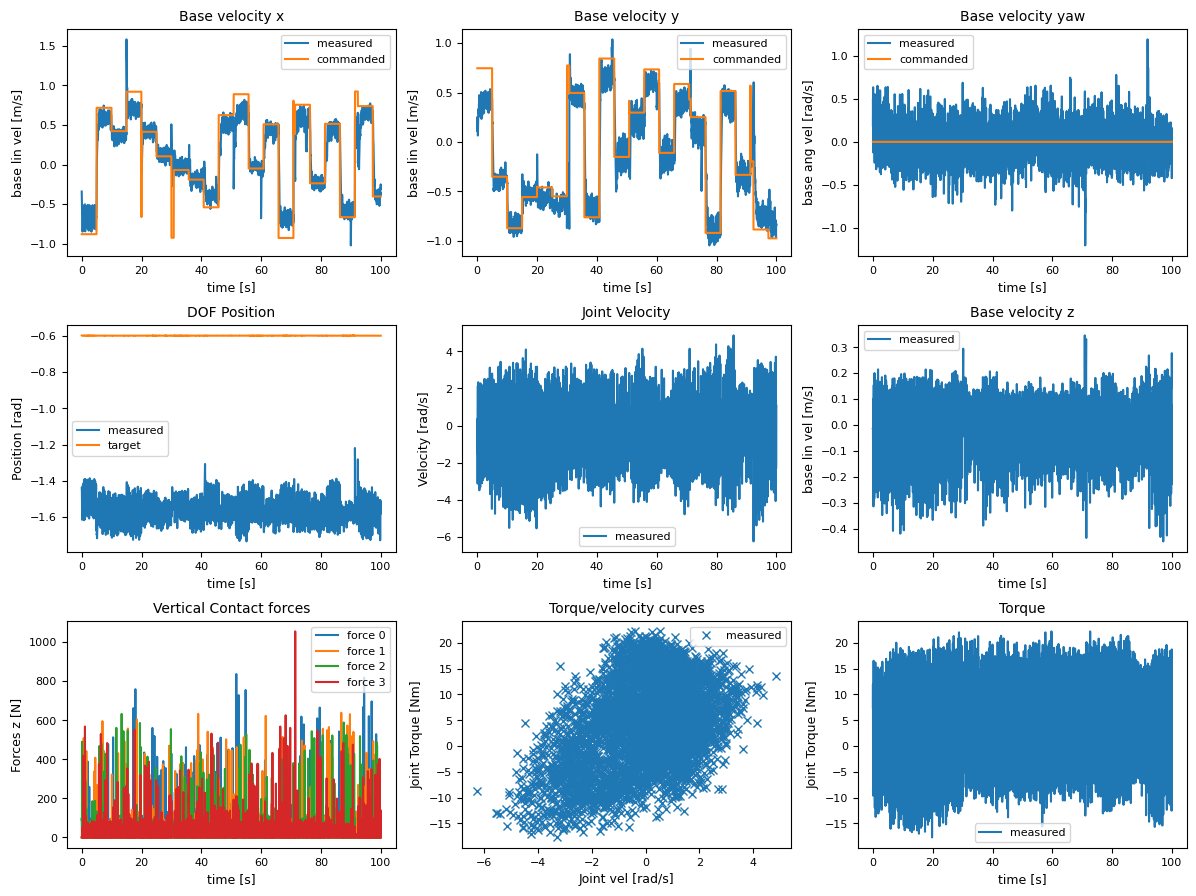
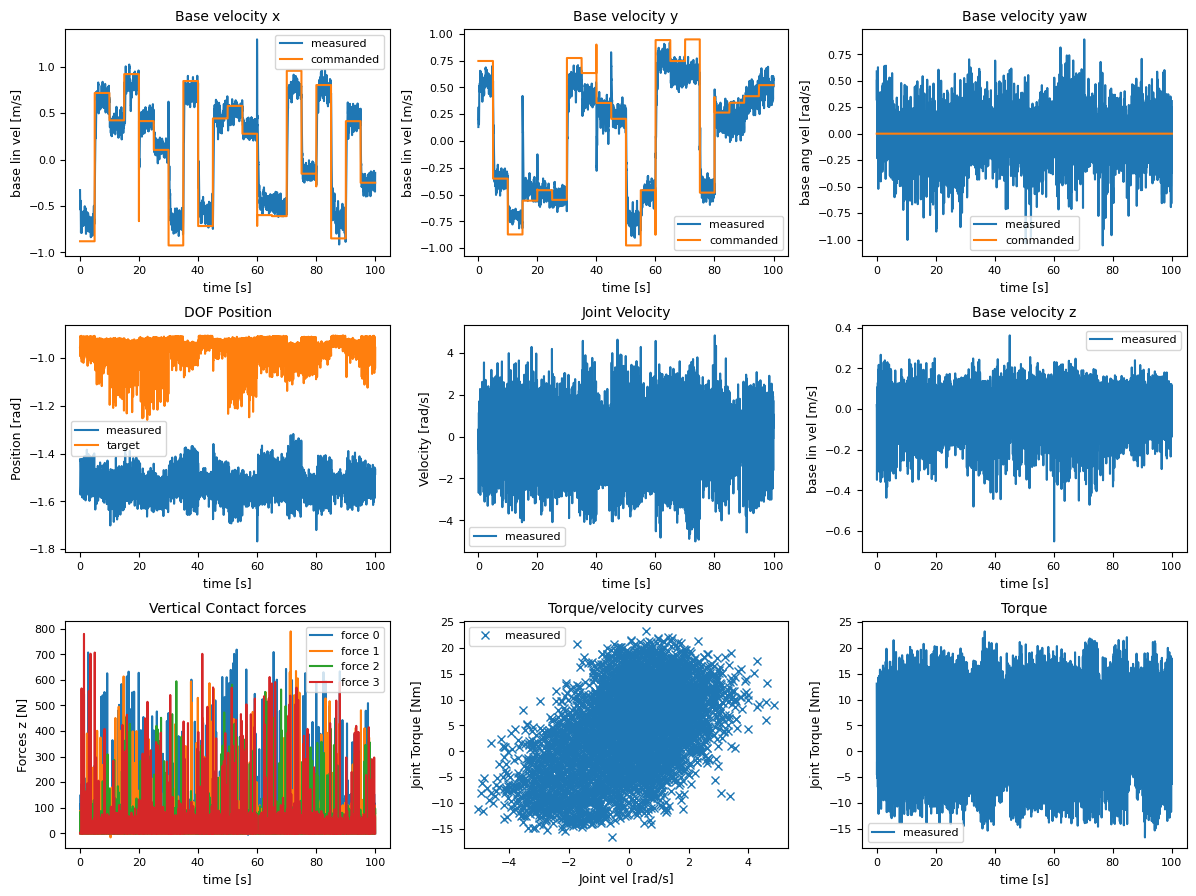
Push before updating tradeoff to formalized curriculum

diff --git a/legged_gym/envs/go1/dynamics_learning/go1_dynmaics_learning.py b/legged_gym/envs/go1/dynamics_learning/go1_dynmaics_learning.py
@@ -66,7 +66,6 @@ class LeggedRobotGo1Dynamic(BaseTask):
             actions (torch.Tensor): Tensor of shape (num_envs, num_actions_per_env)
         """
         # clip the predicted actions
-        
         clip_actions = self.cfg.normalization.clip_actions
         self.actions = torch.clip(
             actions, -clip_actions, clip_actions).to(self.device)
@@ -506,9 +505,8 @@ class LeggedRobotGo1Dynamic(BaseTask):
                     self._added_base_mass,        # 1
                     self._base_com_bias,          # 3
                     self._rand_push_vels[:, :2],  # 2
-                    self._joint_armature,         # 1
-                    self._joint_stiffness,        # 1
-                    self._joint_damping,          # 1
+                    torch.ones_like(self._added_base_mass)*self.feedforward_tau_weight, # 1
+                    torch.ones_like(self._added_base_mass)*self.feedback_tau_weight,    # 1
                     # mass of water tank
                     # stickness of water in tank
                 ),
@@ -1474,15 +1472,19 @@ class LeggedRobotGo1Dynamic(BaseTask):
             remapped_step = 12.0 * raw_step + (-6.0)  # between [-6, 6]
             gentle_step = 1.0 / (1.0 + np.exp(-remapped_step))
 
-            self.feedforward_tau_weight = gentle_step*self.bound_diff[0] + self.tradeoff_lowerbounds[0]
-            self.feedback_tau_weight    = gentle_step*self.bound_diff[1] + self.tradeoff_lowerbounds[1]
+            self.feedforward_tau_weight = raw_step*self.bound_diff[0] + self.tradeoff_lowerbounds[0]
+            self.feedback_tau_weight    = raw_step*self.bound_diff[1] + self.tradeoff_lowerbounds[1]
 
 
-        # Randomly set the weights back to the "initial" configuration - encouraging
-        #     the policy to retain it's ability to walk via position control AND torque
+        # Randomly set the weights to the "opposite" setting, where the primary driver is position-control and the secondary is torques configuration - 
+        #   encouraging the policy discover and retain the ability to walk via position control
         if random.random() < 0.5:
-            self.feedforward_tau_weight = self.tradeoff_lowerbounds[0]
-            self.feedback_tau_weight    = self.tradeoff_lowerbounds[1]
+            raw_step = float(self.num_iters)/float(self.tradeoff_num_steps)   # between [0,1]
+            
+            random_step = random.uniform(0.0, raw_step)
+
+            self.feedforward_tau_weight = random_step*self.bound_diff[0] + self.tradeoff_lowerbounds[0]
+            self.feedback_tau_weight    = random_step*self.bound_diff[1] + self.tradeoff_lowerbounds[1]
 
         print("self.feedforward_tau_weight: ", self.feedforward_tau_weight)
         print("self.feedback_tau_weight: ", self.feedback_tau_weight)
@@ -1790,21 +1792,6 @@ class LeggedRobotGo1Dynamic(BaseTask):
         out_of_limits += (self.dof_pos - \
                           self.dof_pos_limits[:, 1]).clip(min=0.)
         return torch.sum(out_of_limits, dim=1)
-    
-    def _reward_dof_act_alignment(self):
-        # control_type = 'P'
-        # Pull out the position control actions
-        pos_actions = self.actions[:,0:12]
-
-        # Scale the position actions
-        repeat_pos_scales = torch.from_numpy(np.array(self.cfg.control.action_scale)).repeat(1,4).to(self.device)
-        # actions_scaled = pos_actions * self.cfg.control.action_scale
-        actions_scaled = pos_actions * repeat_pos_scales
-
-        error = torch.sum(torch.square(actions_scaled - self.dof_pos), dim=-1)
-
-        return error
-
 
     # def _reward_dof_vel_limits(self):
     #     # Penalize dof velocities too close to the limit
@@ -1844,10 +1831,33 @@ class LeggedRobotGo1Dynamic(BaseTask):
     
     def _reward_task_alignment(self):
         # Penalize un-aligned torques (feedforward torque is in the opposite direction as feedback)
-        un_algined = torch.sum((self.feedforward_torques * self.feedback_torques < 0), dim=-1) * -1.0
-        # Reward algined torques 
-        algined = torch.sum((self.feedforward_torques * self.feedback_torques > 0), dim=-1)
-        return un_algined + algined    
+        un_algined = torch.sum((self.feedforward_torques * self.feedback_torques < 0), dim=-1)
+        # # Reward algined torques 
+        # algined = torch.sum((self.feedforward_torques * self.feedback_torques > 0), dim=-1)
+        # return un_algined + algined   
+        return un_algined 
+    
+    def _reward_dof_tracking(self):
+        # control_type = 'P'
+        # Pull out the position control actions
+        pos_actions = self.actions[:,0:12]
+
+        # Scale the position actions
+        repeat_pos_scales = torch.from_numpy(np.array(self.cfg.control.action_scale)).repeat(1,4).to(self.device)
+        # actions_scaled = pos_actions * self.cfg.control.action_scale
+        actions_ = pos_actions * repeat_pos_scales + self.default_dof_pos
+        error = torch.sum(torch.square(self.dof_pos - actions_), dim=-1)
+        return -torch.exp(-4.0*error)
+    
+    def _reward_torque_pd_ratio(self):
+        feedforward_norm = torch.norm(self.feedforward_torques, dim=-1)
+        feedback_norm = torch.norm(self.feedback_torques, dim=-1)
+
+        ratio = feedforward_norm / (feedback_norm + 1e-6)
+
+        # Enforce that we want the PD targets to carry the majority of the effort early on during training
+        penalty = torch.clamp(ratio - 0.5, min=0)
+        return penalty
     
     # Consider tests when this objective is filtered by in-contact legs
     def _reward_wb_dynamics(self):
@@ -1888,8 +1898,7 @@ class LeggedRobotGo1Dynamic(BaseTask):
         # calculate the error between the observed COM movement (accelerations) and the GRF profile
         torso_acc_error = torch.norm(self.torso_6dof_acceleration[:,0:3] - grf_acc, dim=-1)
 
-        return torch.exp(-torso_acc_error) 
-
+        return torch.exp(-torso_acc_error)
 
     def _reward_feet_air_time(self):
         # Reward long steps
@@ -1906,6 +1915,12 @@ class LeggedRobotGo1Dynamic(BaseTask):
     def _reward_stand_still(self):
         # Penalize motion at zero commands
         return torch.sum(torch.abs(self.dof_pos - self.default_dof_pos), dim=1) * (torch.norm(self.commands[:, :2], dim=1) < 0.1)
+    
+    def _reward_stand_still_contact(self):
+        # encourage all four feet to be in contact with the ground if we are supposed to stand still
+        contact = torch.sum(self.link_contact_forces[:, self.feet_indices, 2] < 1., dim=-1)
+        comd_filter = torch.norm(self.commands[:, :2], dim=1) < 0.1
+        return torch.sum(comd_filter*contact, dim=-1)
     
     def _reward_feet_contact_forces(self):
         # penalize high contact forces

diff --git a/legged_gym/envs/go1/dynamics_learning/go1_dl_config.py b/legged_gym/envs/go1/dynamics_learning/go1_dl_config.py
@@ -5,7 +5,7 @@ class GO1DynamicCfg( LeggedRobotCfg ):
     class env( LeggedRobotCfg.env ):
         num_envs = 4096
         num_observations = 57
-        num_privileged_obs = 82
+        num_privileged_obs = 81
         num_actions = 12
         env_spacing = 0.5
         num_obs_hist = 5
@@ -172,19 +172,26 @@ class GO1DynamicCfg( LeggedRobotCfg ):
         # control_type = 'P'
         # Much smaller values than typical... only used for feedback control
         #     default values are taken from - https://arxiv.org/pdf/1909.06586
-        stiffness = {'joint': 3.0}   # [N*m/rad]
-        damping   = {'joint': 0.075}     # [N*m*s/rad]
+        stiffness = {'joint': 10.0}   # [N*m/rad]
+        damping   = {'joint': 0.25}     # [N*m*s/rad]
+        
         # stiffness = {'joint': 20.0}   # [N*m/rad]
         # damping   = {'joint': 0.5}     # [N*m*s/rad]
+        
         action_scale = [0.4, 0.6, 0.6]    # action scale: target angle = action_scale * pose_action + defaultAngle
-        torque_scale = [25.0, 25.0, 35.0] # action scale:  target torque = torque_scale * tau_action + defaultTorque
+        torque_scale = [20.0, 20.0, 30.0] # action scale:  target torque = torque_scale * tau_action + defaultTorque
+        
+        # action_scale = [0.1, 0.25, 0.25]    # action scale: target angle = action_scale * pose_action + defaultAngle
+        # torque_scale = [10.0, 10.0, 10.0] # action scale:  target torque = torque_scale * tau_action + defaultTorque
+        
+        
         dt =  0.02  # control frequency 50Hz
         decimation = 4 # decimation: Number of control action updates @ sim DT per policy DT
 
         # Assumed order - tau_ff, tau_fb
-        tradeoff_init_weights  = [0.1, 10.0]
+        tradeoff_init_weights  = [0.20, 1.8]
         tradeoff_final_weights = [1.00, 1.0]
-        tradeoff_steps = 1500
+        tradeoff_steps = 2000
 
     class termination:
         termination_terms = ["roll", "pitch", "height_min", "height_max"]
@@ -192,6 +199,7 @@ class GO1DynamicCfg( LeggedRobotCfg ):
         pitch_threshold   = 0.7  # [rad] ~ 20 degrees
         height_min = 0.10       # [m]
         height_max = 1.50        # [m]
+
     class rewards( LeggedRobotCfg.rewards ):
         soft_dof_pos_limit = 0.90
         soft_torque_limit = 0.90
@@ -214,17 +222,21 @@ class GO1DynamicCfg( LeggedRobotCfg ):
             dof_pos_limits        = -10.0
             dof_close_to_default  = -0.75
             torque_limits         = -10.0
-            # stand_still           = -0.1
             no_motion_penalty     = -10.0
             alive_bonus           = 0.5
 
-            dof_act_alignment     = -0.05
+            # stand_still_contact = -0.1
+            # stand_still         = -0.1
 
+            # dof_act_alignment     = -0.001
+            # task_alignment        = -0.001
+
+            torque_pd_ratio = -0.2
 
             # command tracking
             tracking_lin_vel  = 1.0
             tracking_ang_vel  = 0.5
-
+            dof_tracking      = 0.25
 
             # smoothness and stability
             lin_vel_z        = -2.0
@@ -262,11 +274,10 @@ class GO1DynamicCfg( LeggedRobotCfg ):
             feedback_torques      = -2.e-4  # new
 
         class tau_scales():
-            # task_alignment        = -1.e-3
             task_alignment        = 0.0
             tau_action_rate       = -0.01   # new
             tau_action_smoothness = -0.01   # new
-            feedforward_torques   = -2.e-4  # new
+            feedforward_torques   = -2.e-3  # new
 
         class reward_curriculum():
             # curr_reward_keys = ["tau_action_rate", "tau_action_smoothness", "feedforward_torques",
@@ -276,7 +287,7 @@ class GO1DynamicCfg( LeggedRobotCfg ):
             #                     "feet_contact_forces"]
             #                     # "wb_dynamics"]
 
-            curr_reward_keys = ["tau_action_rate", "tau_action_smoothness",
+            curr_reward_keys = ["tau_action_rate", "tau_action_smoothness", "torque_pd_ratio",
                                 "pos_action_rate", "pos_action_smoothness",
                                 "dof_close_to_default", "dof_acc", "joint_power", "joint_power_dist",
                                 "floating_base_stability", "raibert", "feet_contact_forces", "wb_dynamics"]
@@ -305,10 +316,12 @@ class GO1DynamicCfg( LeggedRobotCfg ):
 
                                   "feet_contact_forces":[-1.0e-4,-1e-2],
                                   
-                                  "wb_dynamics":[1e-4, 1e-2]
+                                  "wb_dynamics":[1e-2, 1.0],
+
+                                  "torque_pd_ratio":[-0.2, -1e-8]
                                   }
 
-            curr_steps = 1000
+            curr_steps = 2000
             warmup_steps = 0
     class commands( LeggedRobotCfg.commands ):
         curriculum = True
@@ -372,16 +385,16 @@ class GO1DynmaicCfgPPO( LeggedRobotCfgPPO ):
         policy_class_name = 'ActorCritic_Dynamic'
         algorithm_class_name = 'PPODynamic'
         num_steps_per_env = 36 # per iteration
-        max_iterations = 2500 # number of policy updates
+        max_iterations = 5000 # number of policy updates
         grf_dim = 12
         
         # debug_warmpinn_wb
-        run_name = 'config_test_08_gentletrade_dynrew_parpino'  # 1500 tradeoff, 1000-step reward_curr, higher Kp, act-dof aligment reward
+        run_name = 'config_test_14_gentletrade_dynrew_parpino'  # 1500 tradeoff, 1000-step reward_curr, higher Kp, act-dof aligment reward
         experiment_name = 'go1_dynamic'
         save_interval = 50
         
         
-        load_run = "Dec15_20-56-50_config_test_06_gentletrade_dynrew_parpino"
+        load_run = "Dec13_12-51-25_config_test_03_gentletrade_dynrew_parpino"
         checkpoint = 2500
 
         # Load parameters for first function policy

diff --git a/rsl_rl/modules/actor_critic_dynamic.py b/rsl_rl/modules/actor_critic_dynamic.py
@@ -263,6 +263,9 @@ class ActorCritic_Dynamic(nn.Module):
         # self.act_pos_2_tau_h2 = _ShiftScaleMod(dim=actor_branch_layers[1], activation=activation)
         # self.act_tau_2_pos_h2 = _ShiftScaleMod(dim=actor_branch_layers[1], activation=activation)
 
+        self.act_pos_layernorm = nn.LayerNorm(actor_branch_layers[1])
+        self.act_tau_layernorm = nn.LayerNorm(actor_branch_layers[1])
+
         ###
         #  Construct layers for the critic network
         ###
@@ -289,8 +292,10 @@ class ActorCritic_Dynamic(nn.Module):
         self.mean_tau = None
 
 
-        self.std_pos = nn.Parameter(init_noise_std * torch.ones(num_actions))
-        self.std_tau = nn.Parameter(init_noise_std * torch.ones(num_actions))
+        self.std_pos = nn.Parameter(1.00 * torch.ones(num_actions))
+        self.std_tau = nn.Parameter(0.5 * torch.ones(num_actions))
+
+        # self.std = nn.Parameter(init_noise_std * torch.ones(num_actions))
 
         self.num_actions = num_actions
         
@@ -389,6 +394,7 @@ class ActorCritic_Dynamic(nn.Module):
         # for i in range(self.options["action_net"]["num_layers"]-1):
         #     no_decay.update([f"noise_decoder.cross_field_scales_pos.{i}", f"noise_decoder.cross_field_scales_tau.{i}"])
         no_decay.update([f"std_pos", f"std_tau"])
+        # shared_decay.update([f"std"])
 
         # Validate parameter separation
         param_dict   = {pn: p for pn, p in self.named_parameters()}
@@ -473,6 +479,10 @@ class ActorCritic_Dynamic(nn.Module):
         pos_latent = self.activation(pos_latent)
         tau_latent = self.activation(tau_latent)
 
+        # Perform layer normalization
+        pos_latent = self.act_pos_layernorm(pos_latent)
+        tau_latent = self.act_tau_layernorm(tau_latent)
+
 
         # Now run the final output layers to get both action modalities
         # act_pos_act = F.tanh(self.act_pos_out(pos_latent))
@@ -545,8 +555,10 @@ class ActorCritic_Dynamic(nn.Module):
         # std_pos = torch.clamp(self.std_pos, 0.05, 1.1)
         # std_tau = torch.clamp(self.std_tau, 0.05, 1.1)
 
-        self.std_pos.data.clamp_(0.2, 1.1)
-        self.std_tau.data.clamp_(0.2, 1.1)
+        self.std_pos.data.clamp_(0.05, 5.0)
+        self.std_tau.data.clamp_(0.05, 1.0)
+
+        # self.std.data.clamp_(0.2, 1.1)
 
         self.distribution_pos = Normal(mean_pos, mean_pos * 0.0 + self.std_pos)
         self.distribution_tau = Normal(mean_tau, mean_tau * 0.0 + self.std_tau)

diff --git a/legged_gym/scripts/play_dynamic.py b/legged_gym/scripts/play_dynamic.py
@@ -128,7 +128,7 @@ def play(args):
 
         repeat_pos_scales = torch.from_numpy(np.array(env.cfg.control.action_scale)).repeat(1,4).to(env.device)
         # actions_scaled = pos_actions * self.cfg.control.action_scale
-        actions_scaled = F.tanh(actions[:,0:12]) * repeat_pos_scales
+        actions_scaled = F.tanh(actions[:,0:12]) * repeat_pos_scales + env.default_dof_pos
 
         if infos["episode"]:
             num_episodes = torch.sum(env.reset_buf).item()

diff --git a/rsl_rl/algorithms/ppo_dynamic.py b/rsl_rl/algorithms/ppo_dynamic.py
@@ -403,7 +403,7 @@ class PPODynamic:
                 else:
                     tau_value_loss = (tau_returns_batch - tau_value_batch).pow(2).mean()
 
-                tau_loss = tau_surrogate_loss + self.value_loss_coef * tau_value_loss - self.entropy_coef * tau_entropy_batch.mean()
+                tau_loss = tau_surrogate_loss + self.value_loss_coef * tau_value_loss - 0.001 * tau_entropy_batch.mean()
 
                 ###
                 #  PINN Loss
